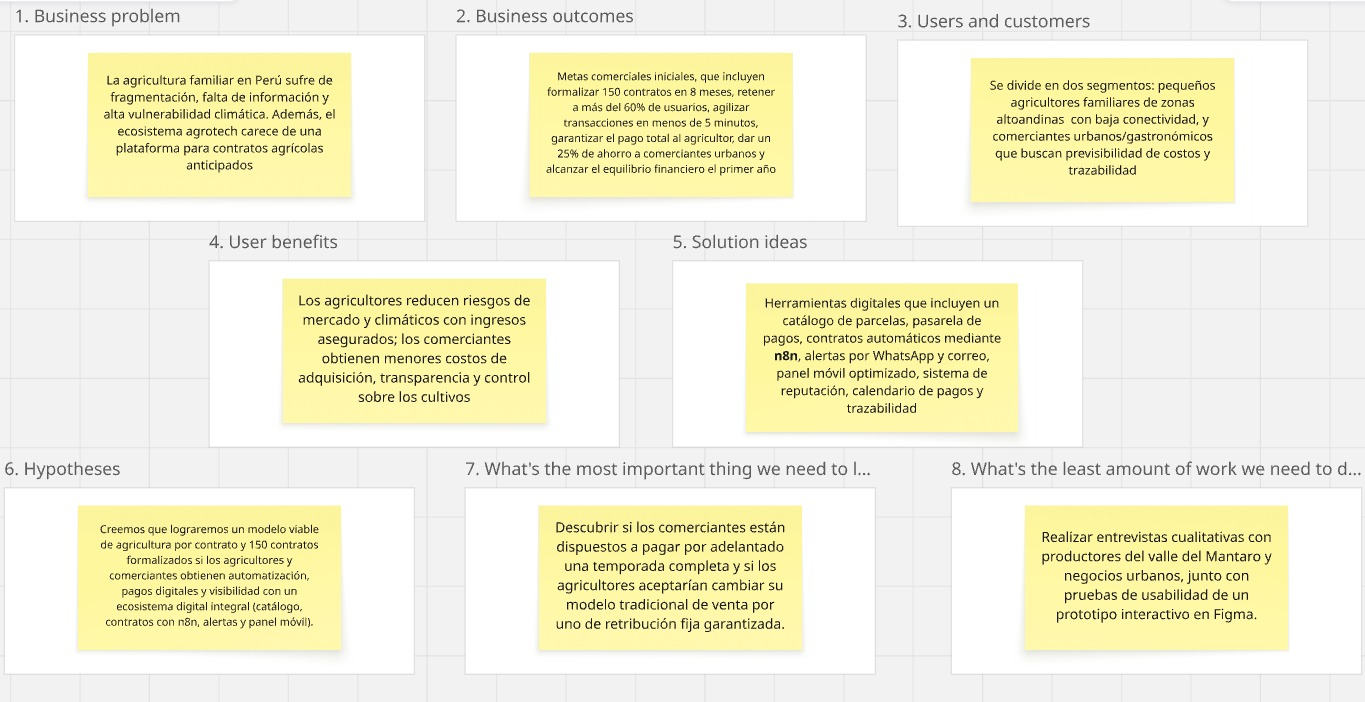
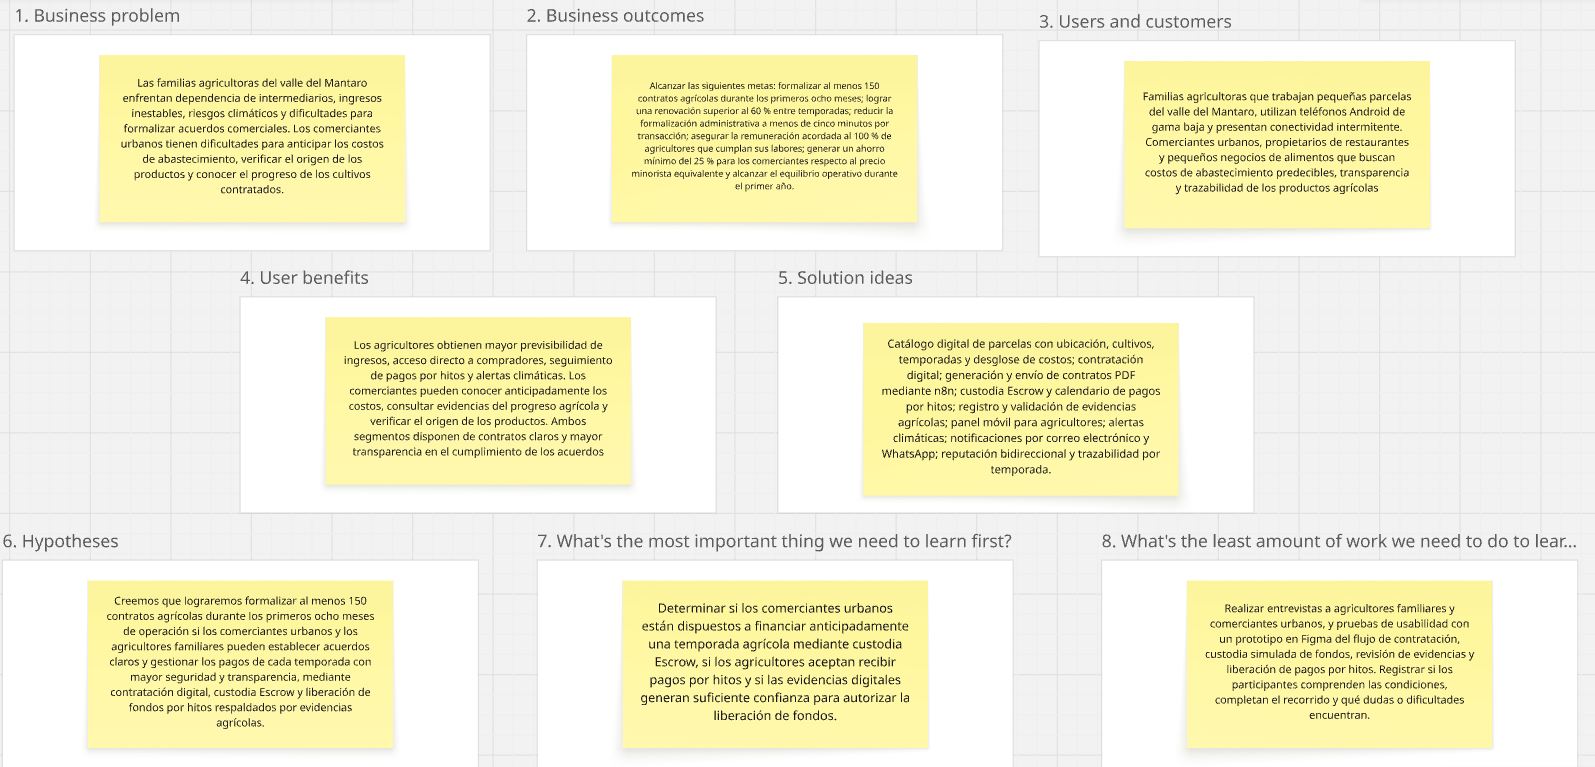
docs: align lean ux canvas with project assumptions

diff --git a/README.md b/README.md
@@ -699,7 +699,9 @@ El Lean UX Canvas es una herramienta ágil que sintetiza los elementos clave del
 *Lean UX Canvas*
 
 <p align="center">
-  <img src="assets/chapter-01/lean-ux-canvas1.png" alt="Lean UX Canvas de Allpatek" width="800"><br>
+  <a href="assets/chapter-01/lean-ux-canvas1.png">
+    <img src="assets/chapter-01/lean-ux-canvas1.png" alt="Lean UX Canvas de Allpatek" width="800">
+  </a><br>
   <i>Nota. Elaboración propia.</i>
 </p>
 
